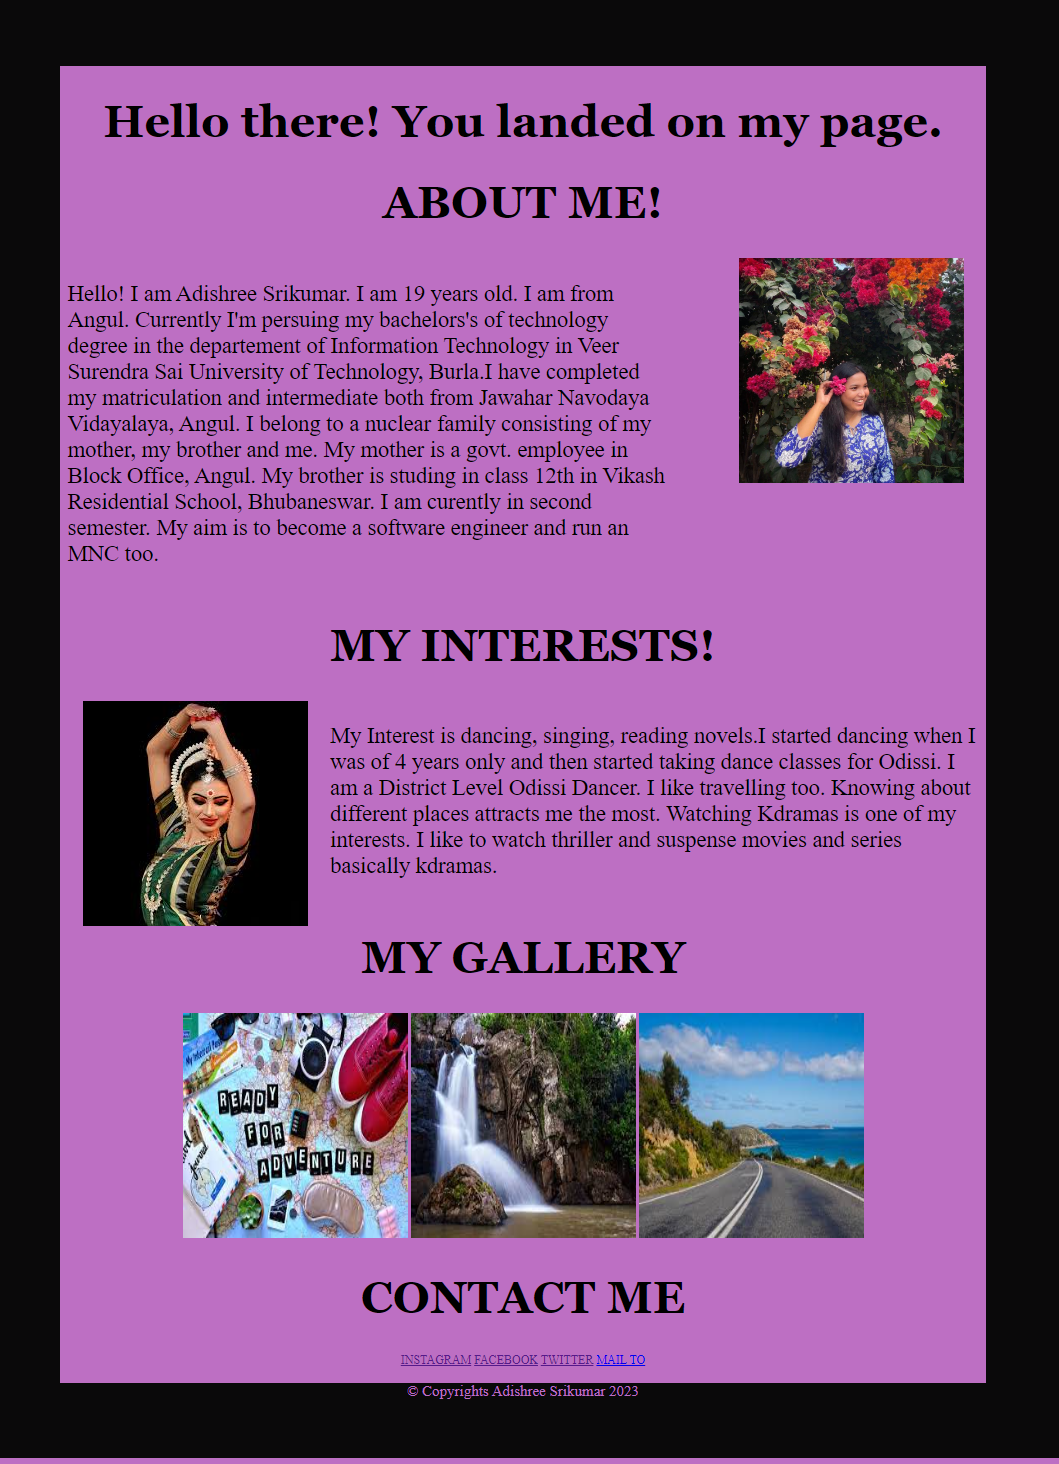
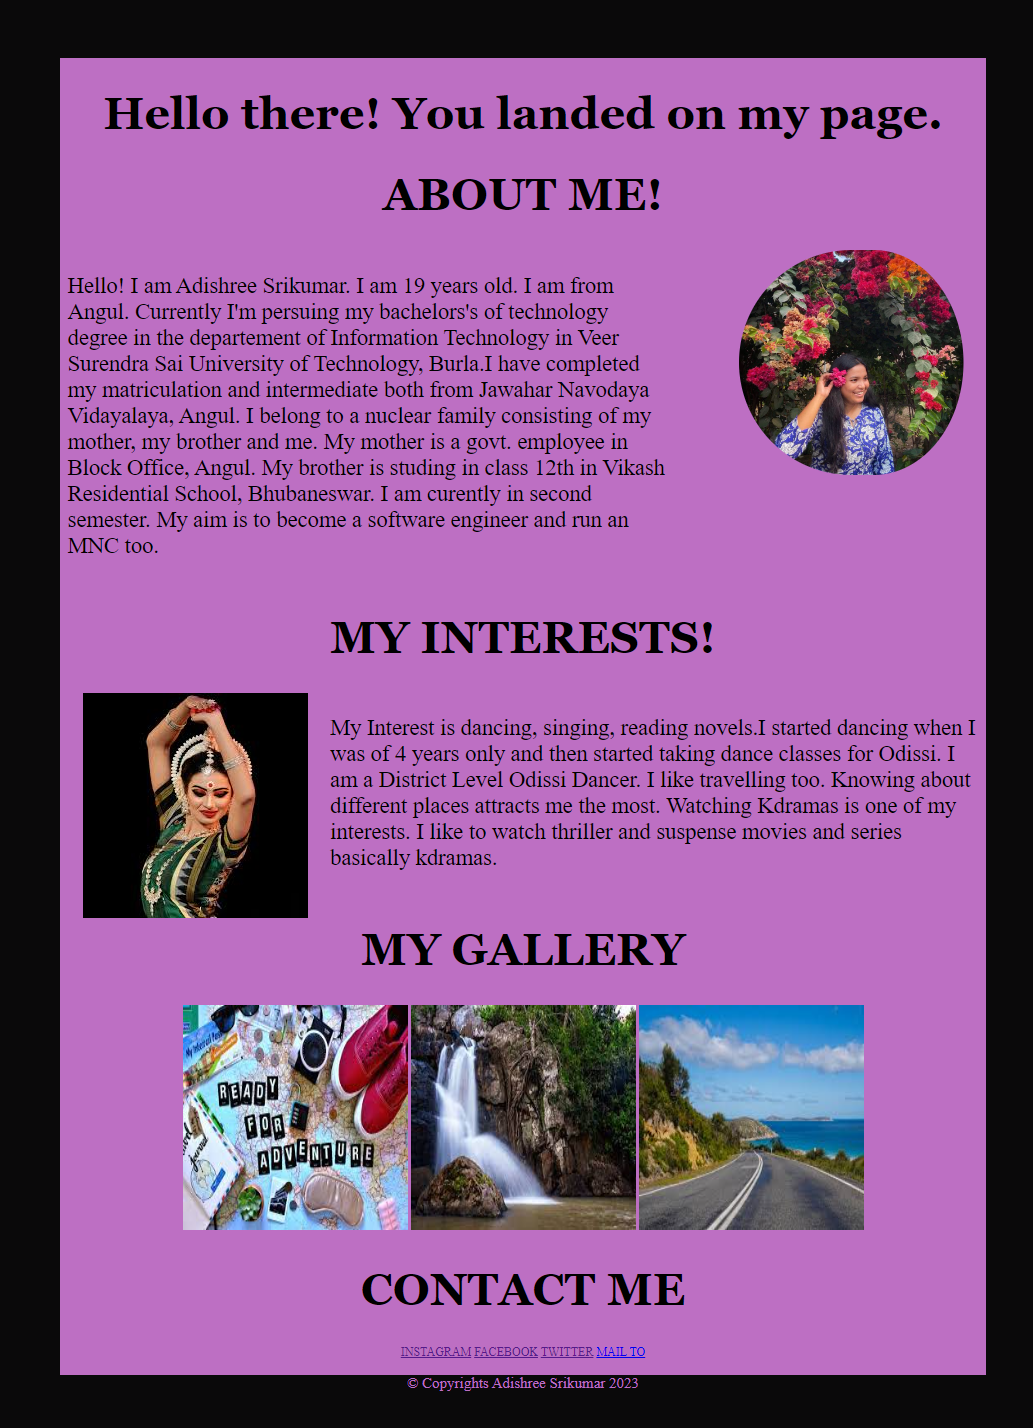
web development task 1 completed

diff --git a/Web Development/Task-1/Task Submission/Adishree Srikumar/index.html b/Web Development/Task-1/Task Submission/Adishree Srikumar/index.html
@@ -8,7 +8,7 @@
         </title> 
 
 
-        <link rel="stylesheet" href="css\style.css">
+        <link rel="stylesheet" href="style.css">
 
 
 
@@ -20,7 +20,7 @@
 <div class="body">
     <div class="first-para">
         <h1> ABOUT ME!</h1> 
-        <img class="myphoto" src="images\my photo.jpg" height="300px" width="300px">
+        <img class="myphoto" src="my photo.jpg" height="300px" width="300px">
         <p class="about">
             
             Hello! I am Adishree Srikumar. I am 19 years old. I am from Angul. Currently I'm persuing my bachelors's of technology degree in 
@@ -33,7 +33,7 @@
          </div> 
          <div class="second para">
             <h1> MY INTERESTS!</h1>
-            <img class="odissi" src="images\odissi.jpg" height="300px" width="300px">
+            <img class="odissi" src="odissi.jpg" height="300px" width="300px">
             <p class="interests">
 
                 My Interest is dancing, singing, reading novels.I started dancing when I was of 4 years only and then started taking dance classes for Odissi.
@@ -45,11 +45,11 @@
 
         <div class="third para">
             <h1> MY GALLERY</h1>
-            <img src="images\adventure.jpg" height="300px" width="300px">
+            <img src="adventure.jpg" height="300px" width="300px">
 
-            <img src="images\waterfall.jpg" height="300px" width="300px">
+            <img src="waterfall.jpg" height="300px" width="300px">
 
-            <img src="images\travelling.jpg" height="300px" width="300px">
+            <img src="travelling.jpg" height="300px" width="300px">
         </div>
 
         <div class="fourth para">

diff --git a/Web Development/Task-1/Task Submission/Adishree Srikumar/CSS/style.css b/Web Development/Task-1/Task Submission/Adishree Srikumar/CSS/style.css
@@ -1,4 +1,4 @@
-style {
+style{
     margin:0px;
     padding:0px;
     box-sizing:border-box;
@@ -10,8 +10,8 @@ body{
     border-left:100px solid #0a090a;
     border-bottom:0px solid #0a090a;
     text-align: center;
-    font family : Times, serif;
-    background: rgb(189, 111, 195);
+    font-family : Times, serif;
+    background : rgb(189, 111, 195);
 }
 
 h1{
@@ -22,7 +22,7 @@ h1{
 
 .myphoto{
     float: right;
-    border radius : 150px;
+    border-radius : 300px;
     width: 300px;
     padding-right: 30px;
 }
